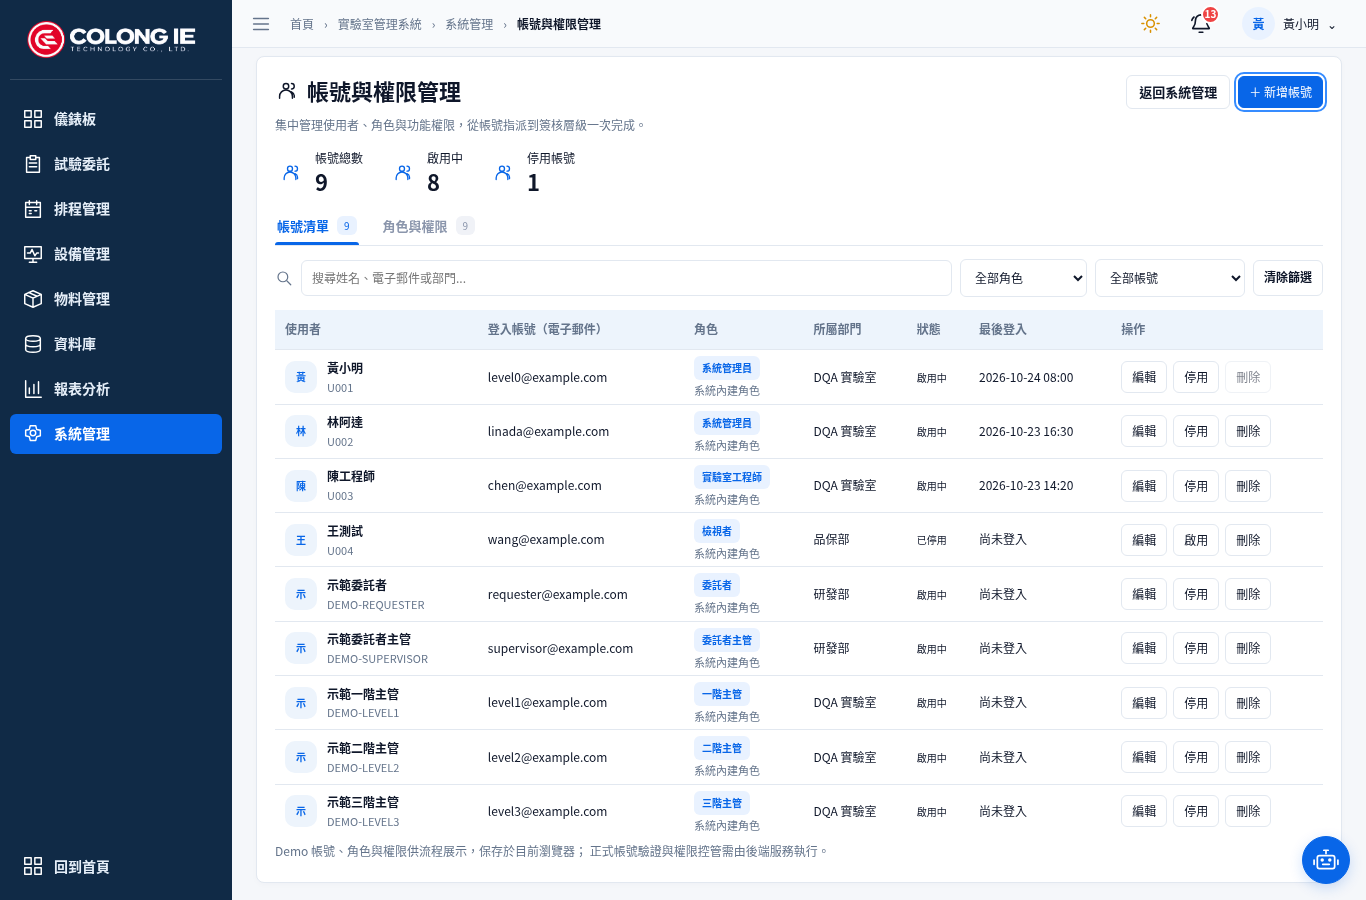
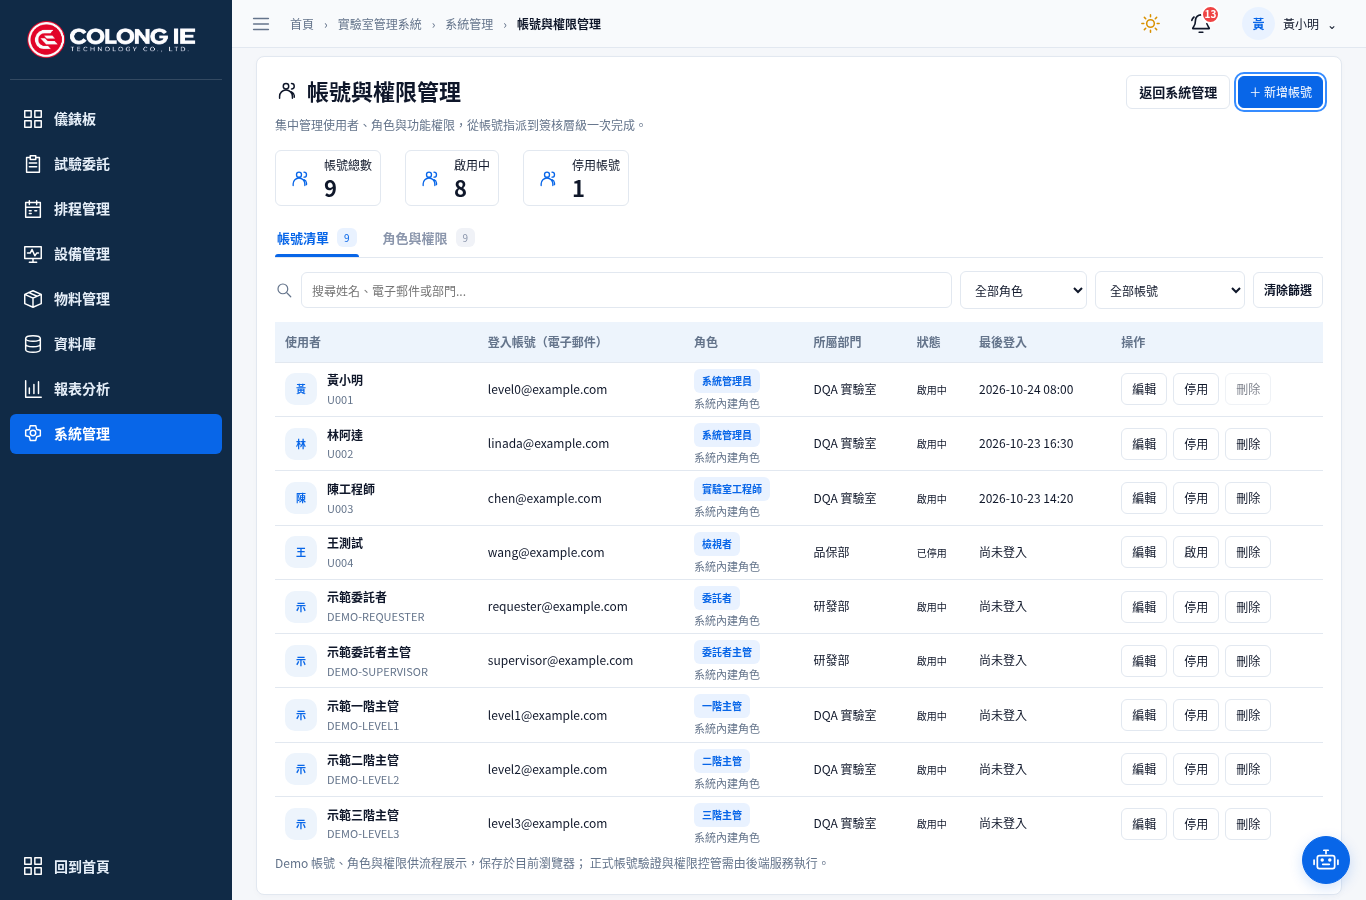
Frame account counts as compact summary cards

diff --git a/src/AccountRolePolish.css b/src/AccountRolePolish.css
@@ -41,10 +41,12 @@ html body #root .lms-enterprise .schedule-edit-modal .schedule-arrangement label
 html body #root .lms-enterprise .schedule-edit-modal .schedule-arrangement :is(input,select){height:36px;min-height:36px;padding:6px 10px;font-size:12px}
 @media(max-width:650px){html body #root .lms-enterprise .panel.account-management .account-summary{gap:8px}html body #root .lms-enterprise .panel.account-management .role-workspace>header{flex-wrap:wrap}html body #root .lms-enterprise .schedule-edit-modal .schedule-arrangement-device{padding-right:0}html body #root .lms-enterprise .schedule-edit-modal .schedule-request-details>summary{flex-wrap:wrap;gap:4px;font-size:12px;line-height:1.4}html body #root .lms-enterprise .schedule-edit-modal .schedule-request-details>summary small{margin-left:0;width:100%}}
 
-/* Restore the original summary scale, without cards or stretched columns. */
+/* Small summary cards retain the original icon and typography scale. */
 html body #root .lms-enterprise .panel.account-management .account-summary{display:flex;justify-content:flex-start;align-items:center;flex-wrap:wrap;gap:12px 24px;margin:0}
-html body #root .lms-enterprise .panel.account-management .account-summary-card{display:grid;grid-template-columns:30px max-content;grid-template-rows:auto auto;align-items:center;justify-content:start;flex:none;column-gap:10px;row-gap:2px;width:max-content;min-width:0;min-height:44px;padding:0;border:0!important;border-radius:0;background:transparent!important;box-shadow:none;text-align:left}
+html body #root .lms-enterprise .panel.account-management .account-summary-card{display:grid;grid-template-columns:30px max-content;grid-template-rows:auto auto;align-items:center;justify-content:start;flex:none;column-gap:10px;row-gap:2px;width:max-content;min-width:0;min-height:56px;padding:6px 8px;border:1px solid var(--enterprise-border)!important;border-radius:6px;background:var(--enterprise-card)!important;box-shadow:none;text-align:left}
 html body #root .lms-enterprise .panel.account-management .account-summary-card>.workspace-summary-icon{grid-column:1;grid-row:1/span 2;width:30px;height:30px;padding:0;border:0;border-radius:0;background:transparent!important;color:var(--tab-accent)}
 html body #root .lms-enterprise .panel.account-management .account-summary-card>.workspace-summary-icon svg{width:20px;height:20px}
 html body #root .lms-enterprise .panel.account-management .account-summary-card>span{grid-column:2;grid-row:1;margin:0;font-size:12px;line-height:1.35;color:var(--enterprise-text)}
 html body #root .lms-enterprise .panel.account-management .account-summary-card>strong{grid-column:2;grid-row:2;margin:0;font-size:22px;line-height:1.1;color:var(--enterprise-text)}
+
+@media(max-width:650px){html body #root .lms-enterprise .panel.account-management .account-summary{gap:8px}}

diff --git a/docs/account-admin-integration/README.md b/docs/account-admin-integration/README.md
@@ -31,3 +31,7 @@
 | 角色與權限 | [檢視](roles-desktop-light.png) | [檢視](roles-mobile-dark.png) |
 
 僅完成本機提交，未推送、合併或部署。
+
+## 小型統計卡片
+
+帳號總數、啟用中、停用帳號改為依內容寬度的小型卡片，1px主題邊框、6px圓角與緊湊內距，保留靠左、固定間距及自然換行。圖示20px、標籤12px、數字22px及原排列不變，沒有新增卡片互動、箭頭或變更數量計算。Lint、Production Build、4項桌面／手機深淺色既有瀏覽器案例通過；以上截圖已更新。
